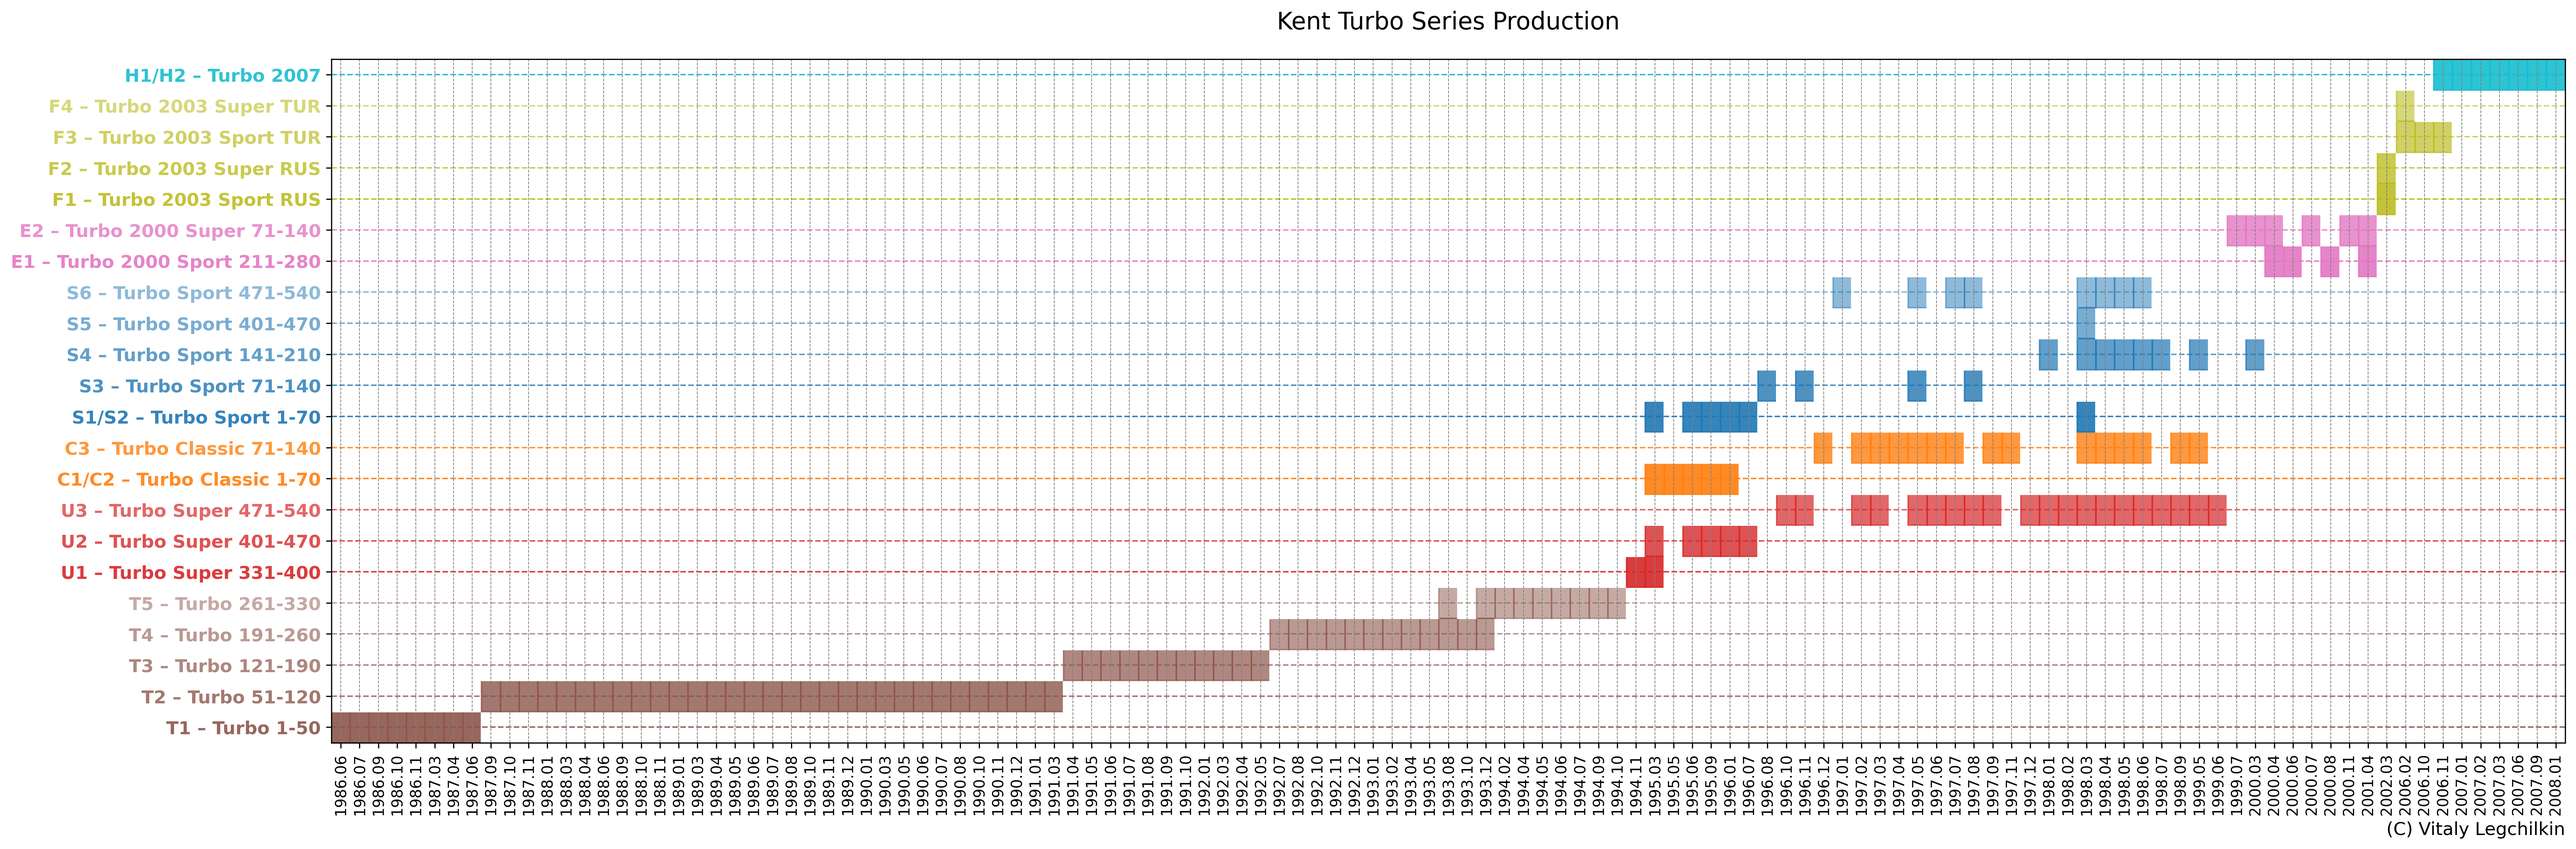
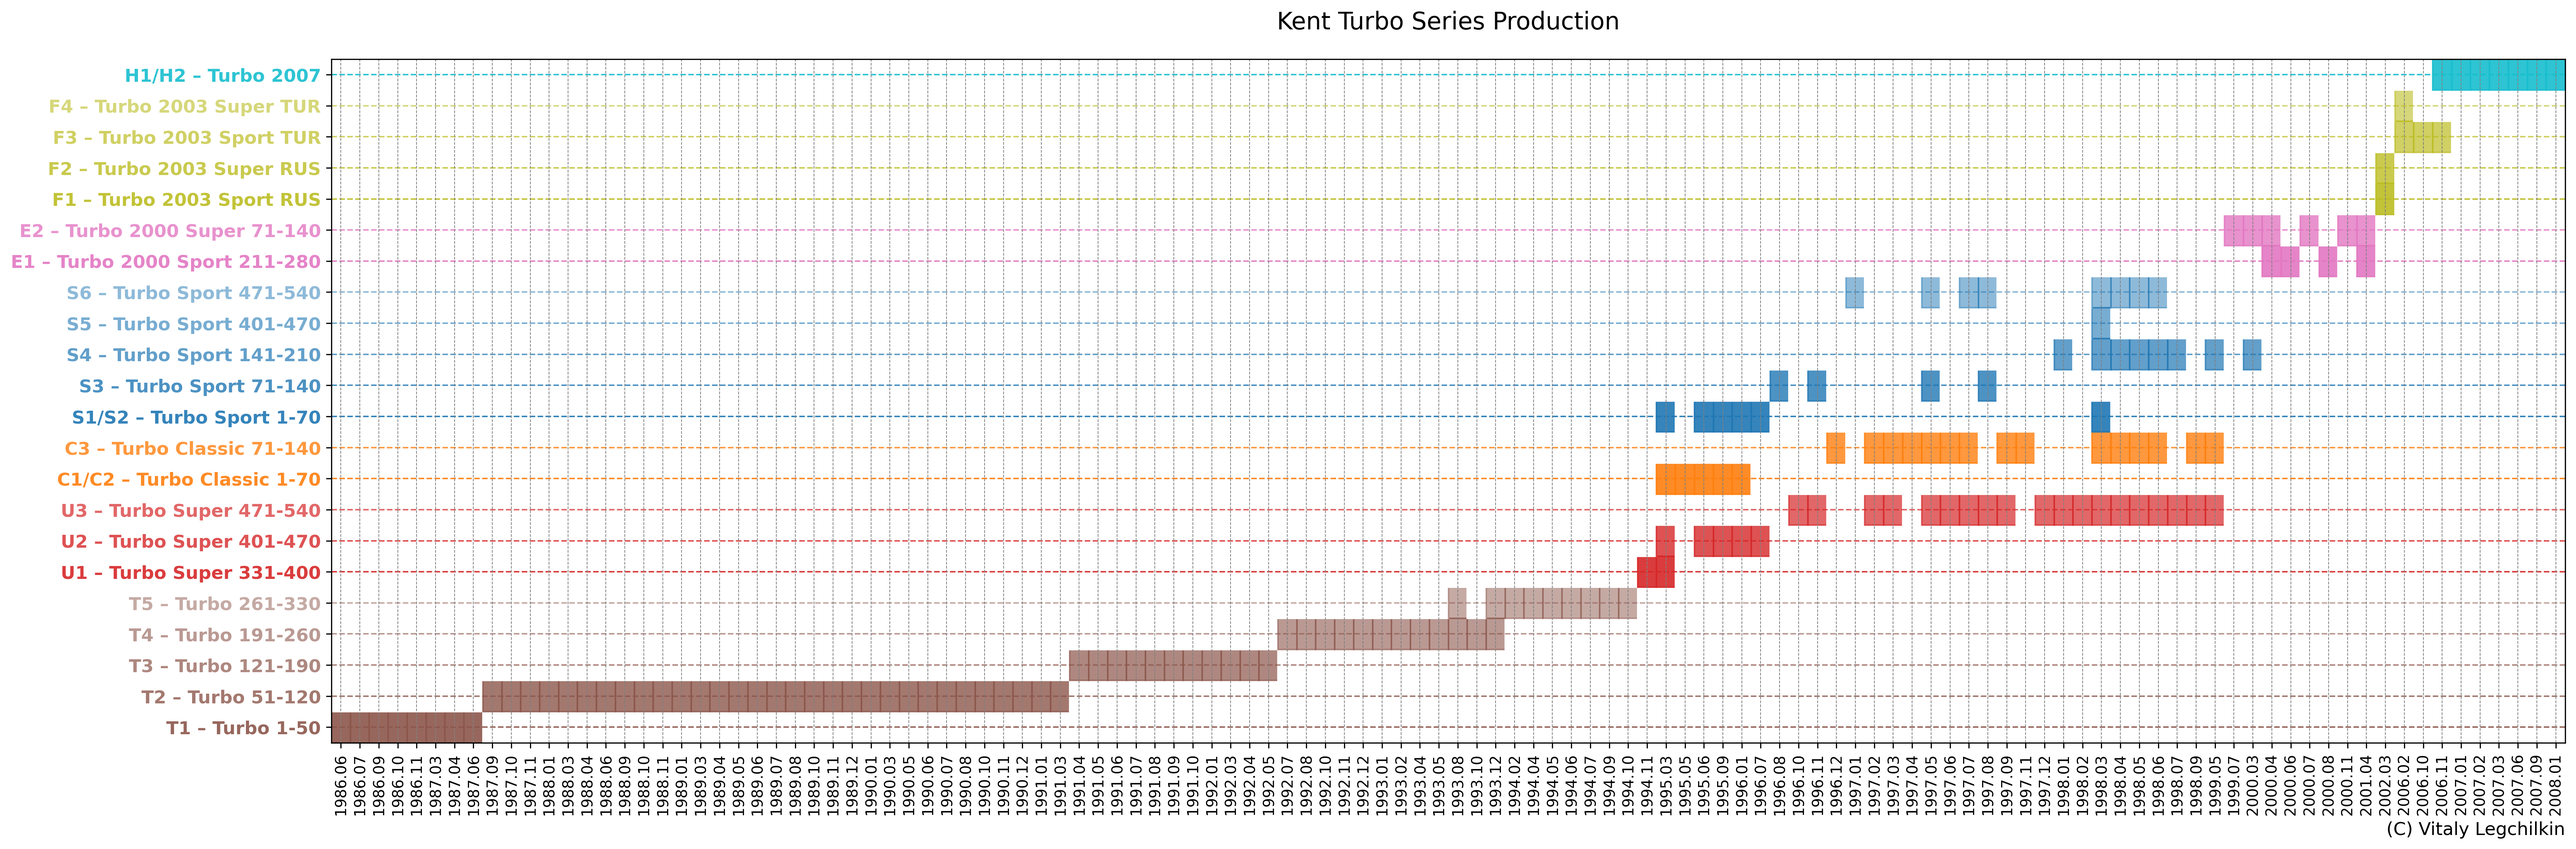
turbo super 1999.06 doesn't exist

diff --git a/gum_wrappers/kent/turbo/super/471-540/README.md b/gum_wrappers/kent/turbo/super/471-540/README.md
@@ -23,7 +23,6 @@
 | 1998.07 [G-98] R1 | [<img src='/collection/gum_wrappers/kent/turbo//missed_outer.png'>](/collection/gum_wrappers/kent/turbo//missed_outer.png) | [<img src='/collection/gum_wrappers/kent/turbo//missed_outer.png'>](/collection/gum_wrappers/kent/turbo//missed_outer.png) | [<img src='/collection/gum_wrappers/kent/turbo//missed_outer.png'>](/collection/gum_wrappers/kent/turbo//missed_outer.png) | [<img src='/collection/gum_wrappers/kent/turbo//missed_outer.png'>](/collection/gum_wrappers/kent/turbo//missed_outer.png) | [<img src='/collection/gum_wrappers/kent/turbo//missed_outer.png'>](/collection/gum_wrappers/kent/turbo//missed_outer.png) | [<img src='/collection/gum_wrappers/kent/turbo//missed_outer.png'>](/collection/gum_wrappers/kent/turbo//missed_outer.png) | [<img src='/collection/gum_wrappers/kent/turbo//missed_outer.png'>](/collection/gum_wrappers/kent/turbo//missed_outer.png) | [<img src='/collection/gum_wrappers/kent/turbo//missed_outer.png'>](/collection/gum_wrappers/kent/turbo//missed_outer.png) | [<img src='/collection/gum_wrappers/kent/turbo//missed_outer.png'>](/collection/gum_wrappers/kent/turbo//missed_outer.png) | [<img src='/collection/gum_wrappers/kent/turbo//missed_outer.png'>](/collection/gum_wrappers/kent/turbo//missed_outer.png) |
 | 1998.09 [I-98] R1 | [<img src='/collection/gum_wrappers/kent/turbo//missed_outer.png'>](/collection/gum_wrappers/kent/turbo//missed_outer.png) | [<img src='/collection/gum_wrappers/kent/turbo//missed_outer.png'>](/collection/gum_wrappers/kent/turbo//missed_outer.png) | [<img src='/collection/gum_wrappers/kent/turbo//missed_outer.png'>](/collection/gum_wrappers/kent/turbo//missed_outer.png) | [<img src='/collection/gum_wrappers/kent/turbo//missed_outer.png'>](/collection/gum_wrappers/kent/turbo//missed_outer.png) | [<img src='/collection/gum_wrappers/kent/turbo//missed_outer.png'>](/collection/gum_wrappers/kent/turbo//missed_outer.png) | [<img src='/collection/gum_wrappers/kent/turbo//missed_outer.png'>](/collection/gum_wrappers/kent/turbo//missed_outer.png) | [<img src='/collection/gum_wrappers/kent/turbo//missed_outer.png'>](/collection/gum_wrappers/kent/turbo//missed_outer.png) | [<img src='/collection/gum_wrappers/kent/turbo//missed_outer.png'>](/collection/gum_wrappers/kent/turbo//missed_outer.png) | [<img src='/collection/gum_wrappers/kent/turbo//missed_outer.png'>](/collection/gum_wrappers/kent/turbo//missed_outer.png) | [<img src='/collection/gum_wrappers/kent/turbo//missed_outer.png'>](/collection/gum_wrappers/kent/turbo//missed_outer.png) |
 | 1999.05 [E-99] R1 | [<img src='/collection/gum_wrappers/kent/turbo//missed_outer.png'>](/collection/gum_wrappers/kent/turbo//missed_outer.png) |          [<img src='thumbnails/outer/1999_05{E-99}[10]R1/2.2.png'>](thumbnails/outer/1999_05{E-99}[10]R1/2.2.png)          | [<img src='/collection/gum_wrappers/kent/turbo//missed_outer.png'>](/collection/gum_wrappers/kent/turbo//missed_outer.png) | [<img src='/collection/gum_wrappers/kent/turbo//missed_outer.png'>](/collection/gum_wrappers/kent/turbo//missed_outer.png) | [<img src='/collection/gum_wrappers/kent/turbo//missed_outer.png'>](/collection/gum_wrappers/kent/turbo//missed_outer.png) | [<img src='/collection/gum_wrappers/kent/turbo//missed_outer.png'>](/collection/gum_wrappers/kent/turbo//missed_outer.png) | [<img src='/collection/gum_wrappers/kent/turbo//missed_outer.png'>](/collection/gum_wrappers/kent/turbo//missed_outer.png) |          [<img src='thumbnails/outer/1999_05{E-99}[10]R1/8.2.png'>](thumbnails/outer/1999_05{E-99}[10]R1/8.2.png)          | [<img src='/collection/gum_wrappers/kent/turbo//missed_outer.png'>](/collection/gum_wrappers/kent/turbo//missed_outer.png) | [<img src='/collection/gum_wrappers/kent/turbo//missed_outer.png'>](/collection/gum_wrappers/kent/turbo//missed_outer.png) |
-| 1999.06 [F-99] R1 | [<img src='/collection/gum_wrappers/kent/turbo//missed_outer.png'>](/collection/gum_wrappers/kent/turbo//missed_outer.png) | [<img src='/collection/gum_wrappers/kent/turbo//missed_outer.png'>](/collection/gum_wrappers/kent/turbo//missed_outer.png) | [<img src='/collection/gum_wrappers/kent/turbo//missed_outer.png'>](/collection/gum_wrappers/kent/turbo//missed_outer.png) | [<img src='/collection/gum_wrappers/kent/turbo//missed_outer.png'>](/collection/gum_wrappers/kent/turbo//missed_outer.png) | [<img src='/collection/gum_wrappers/kent/turbo//missed_outer.png'>](/collection/gum_wrappers/kent/turbo//missed_outer.png) | [<img src='/collection/gum_wrappers/kent/turbo//missed_outer.png'>](/collection/gum_wrappers/kent/turbo//missed_outer.png) | [<img src='/collection/gum_wrappers/kent/turbo//missed_outer.png'>](/collection/gum_wrappers/kent/turbo//missed_outer.png) | [<img src='/collection/gum_wrappers/kent/turbo//missed_outer.png'>](/collection/gum_wrappers/kent/turbo//missed_outer.png) | [<img src='/collection/gum_wrappers/kent/turbo//missed_outer.png'>](/collection/gum_wrappers/kent/turbo//missed_outer.png) | [<img src='/collection/gum_wrappers/kent/turbo//missed_outer.png'>](/collection/gum_wrappers/kent/turbo//missed_outer.png) |
 
 <span style="display: inline-block;">
 	<a href='thumbnails/inner/471.5.png' title=''><img src='thumbnails/inner/471.5.png' alt=''></a>

diff --git a/gum_wrappers/kent/turbo/index.md b/gum_wrappers/kent/turbo/index.md
@@ -10,7 +10,7 @@ layout: default
 
 ## Statistic
 
-\[Covers: 670 of 1053\]
+\[Covers: 670 of 1043\]
 \[Wrappers: 2161 of 2193\]
 
 ## [T1 – Turbo 1-50](black/1-50)
@@ -1363,7 +1363,7 @@ Wrappers: 70 / 70
 
 ## [U3 – Turbo Super 471-540](super/471-540)
 
-Covers: 88 / 200
+Covers: 88 / 190
 Wrappers: 72 / 72
 
 <table style="width:100%">
@@ -1578,17 +1578,6 @@ Wrappers: 72 / 72
             <a href='super/471-540/thumbnails/outer/1999_05{E-99}[10]R1/8.2.png' target='_blank'><img src='super/471-540/thumbnails/outer/1999_05{E-99}[10]R1/8.2.png' width='50' alt='1999.05 [E-99] R1.8'/></a>
             <a href='/collection/gum_wrappers/kent/turbo//missed_outer.png' target='_blank'><img src='/collection/gum_wrappers/kent/turbo//missed_outer.png' width='50' alt='1999.05 [E-99] R1.9'/></a>
             <a href='/collection/gum_wrappers/kent/turbo//missed_outer.png' target='_blank'><img src='/collection/gum_wrappers/kent/turbo//missed_outer.png' width='50' alt='1999.05 [E-99] R1.10'/></a>
-            <br/>1999.06 [F-99] R1<br/>
-            <a href='/collection/gum_wrappers/kent/turbo//missed_outer.png' target='_blank'><img src='/collection/gum_wrappers/kent/turbo//missed_outer.png' width='50' alt='1999.06 [F-99] R1.1'/></a>
-            <a href='/collection/gum_wrappers/kent/turbo//missed_outer.png' target='_blank'><img src='/collection/gum_wrappers/kent/turbo//missed_outer.png' width='50' alt='1999.06 [F-99] R1.2'/></a>
-            <a href='/collection/gum_wrappers/kent/turbo//missed_outer.png' target='_blank'><img src='/collection/gum_wrappers/kent/turbo//missed_outer.png' width='50' alt='1999.06 [F-99] R1.3'/></a>
-            <a href='/collection/gum_wrappers/kent/turbo//missed_outer.png' target='_blank'><img src='/collection/gum_wrappers/kent/turbo//missed_outer.png' width='50' alt='1999.06 [F-99] R1.4'/></a>
-            <a href='/collection/gum_wrappers/kent/turbo//missed_outer.png' target='_blank'><img src='/collection/gum_wrappers/kent/turbo//missed_outer.png' width='50' alt='1999.06 [F-99] R1.5'/></a>
-            <a href='/collection/gum_wrappers/kent/turbo//missed_outer.png' target='_blank'><img src='/collection/gum_wrappers/kent/turbo//missed_outer.png' width='50' alt='1999.06 [F-99] R1.6'/></a>
-            <a href='/collection/gum_wrappers/kent/turbo//missed_outer.png' target='_blank'><img src='/collection/gum_wrappers/kent/turbo//missed_outer.png' width='50' alt='1999.06 [F-99] R1.7'/></a>
-            <a href='/collection/gum_wrappers/kent/turbo//missed_outer.png' target='_blank'><img src='/collection/gum_wrappers/kent/turbo//missed_outer.png' width='50' alt='1999.06 [F-99] R1.8'/></a>
-            <a href='/collection/gum_wrappers/kent/turbo//missed_outer.png' target='_blank'><img src='/collection/gum_wrappers/kent/turbo//missed_outer.png' width='50' alt='1999.06 [F-99] R1.9'/></a>
-            <a href='/collection/gum_wrappers/kent/turbo//missed_outer.png' target='_blank'><img src='/collection/gum_wrappers/kent/turbo//missed_outer.png' width='50' alt='1999.06 [F-99] R1.10'/></a>
             <br/>
         </td>
         <td>
